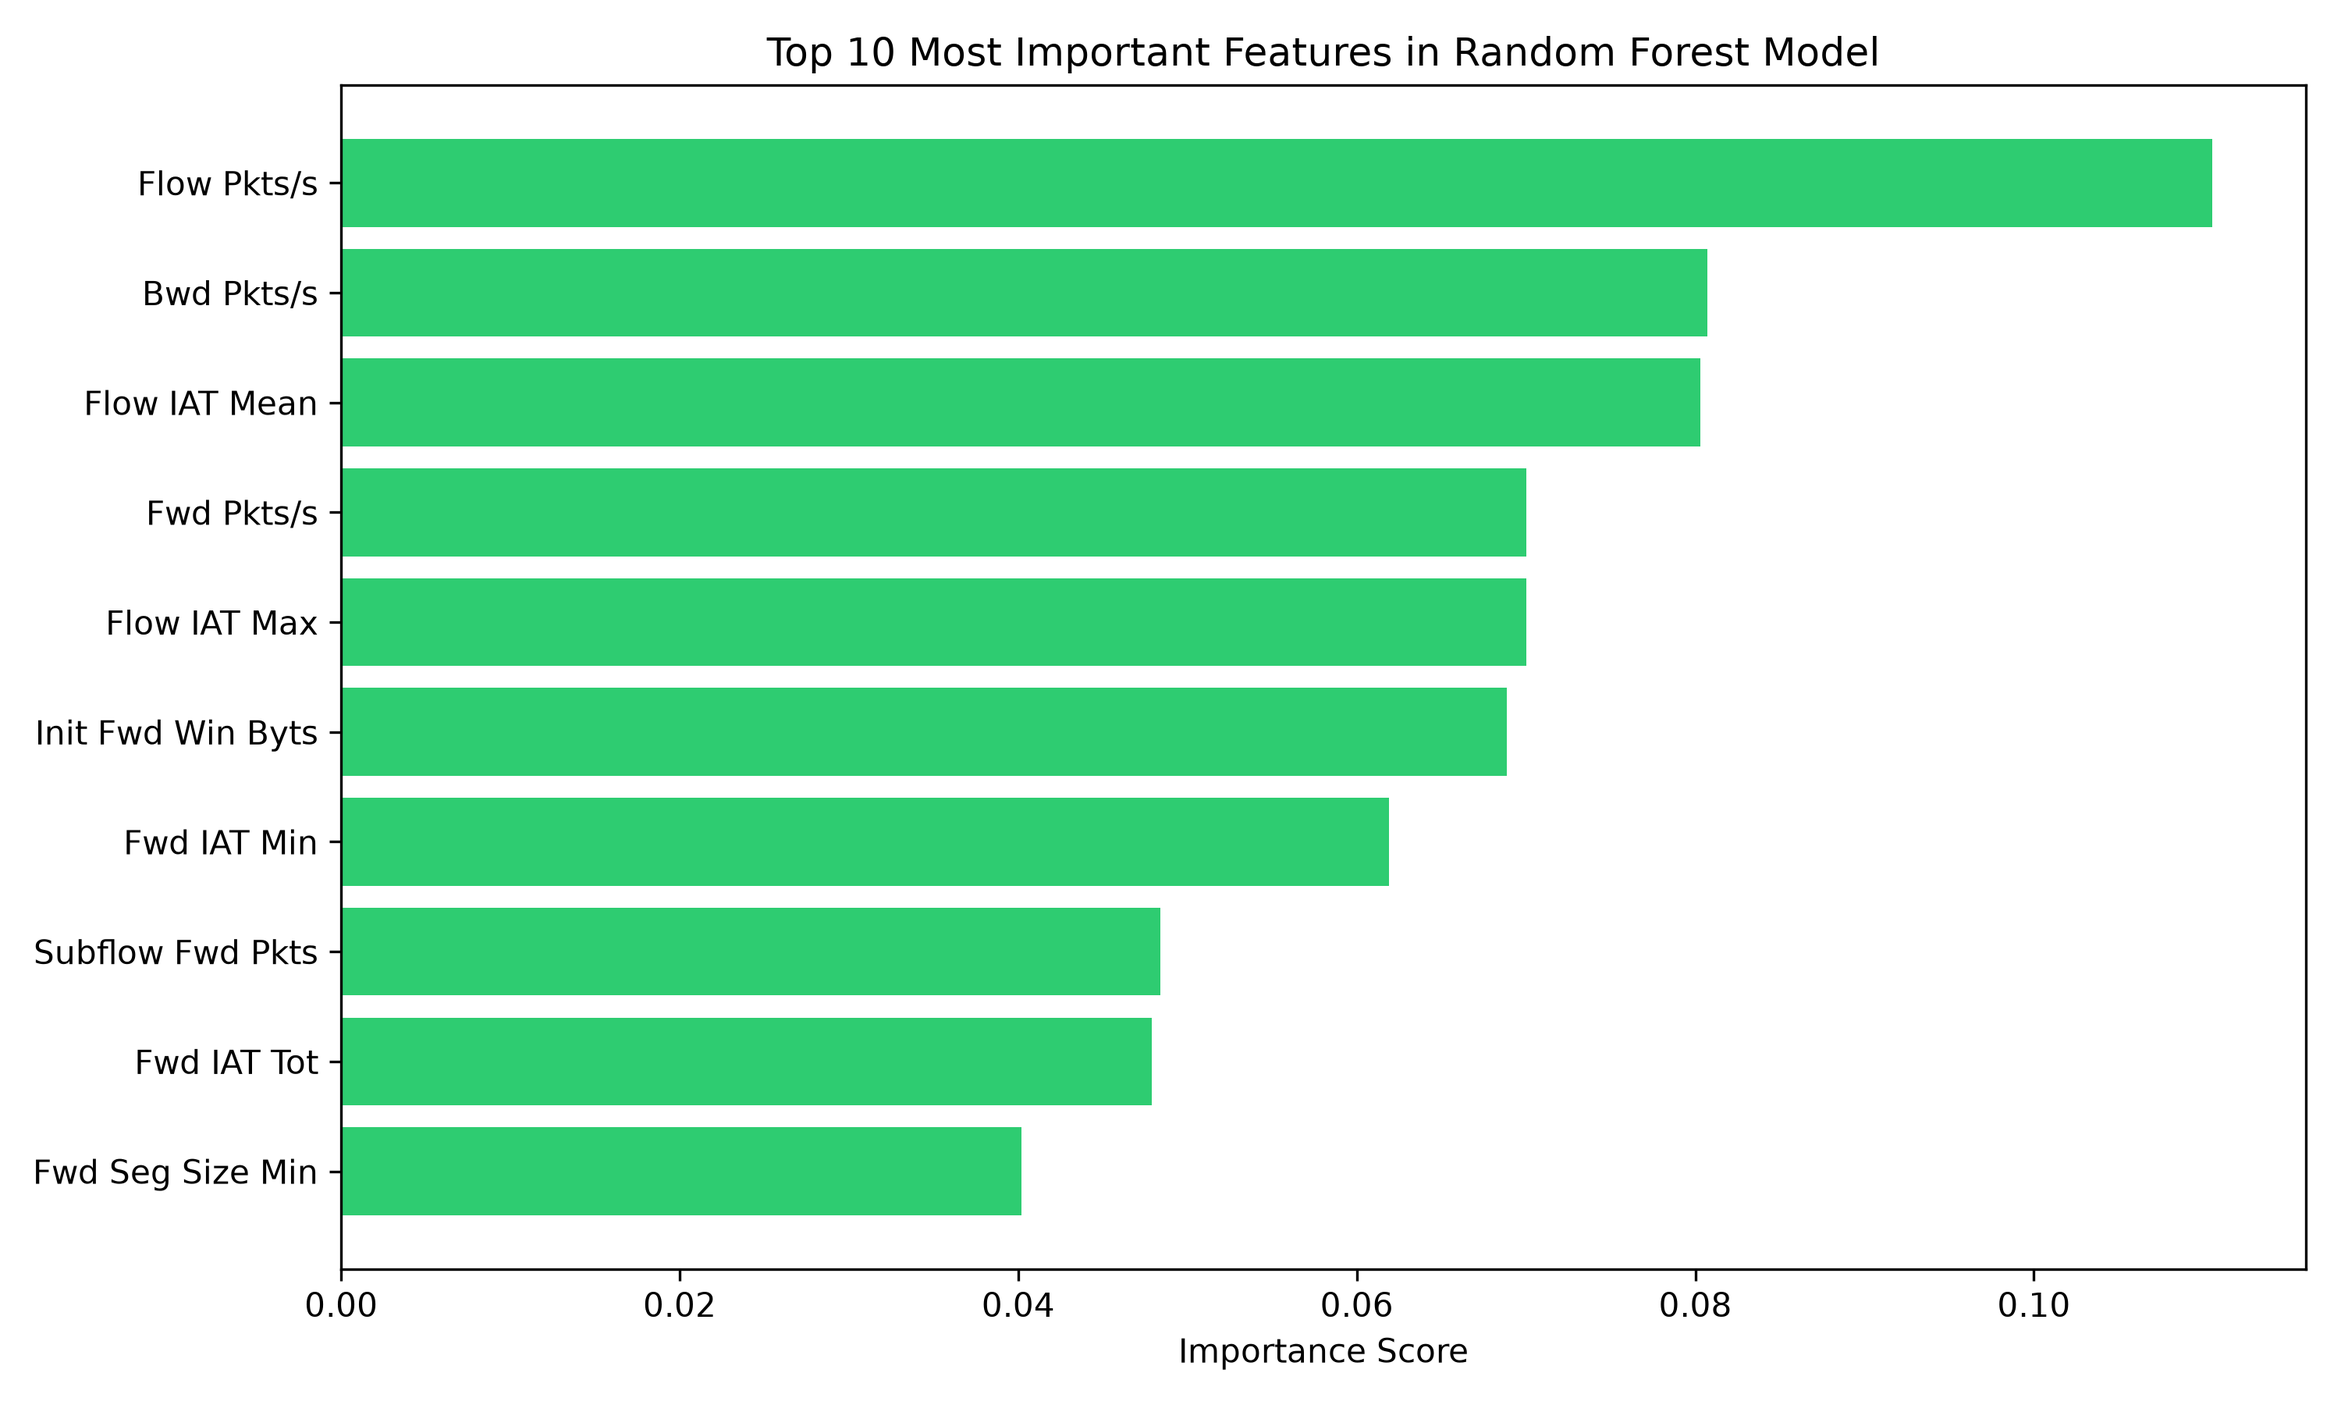
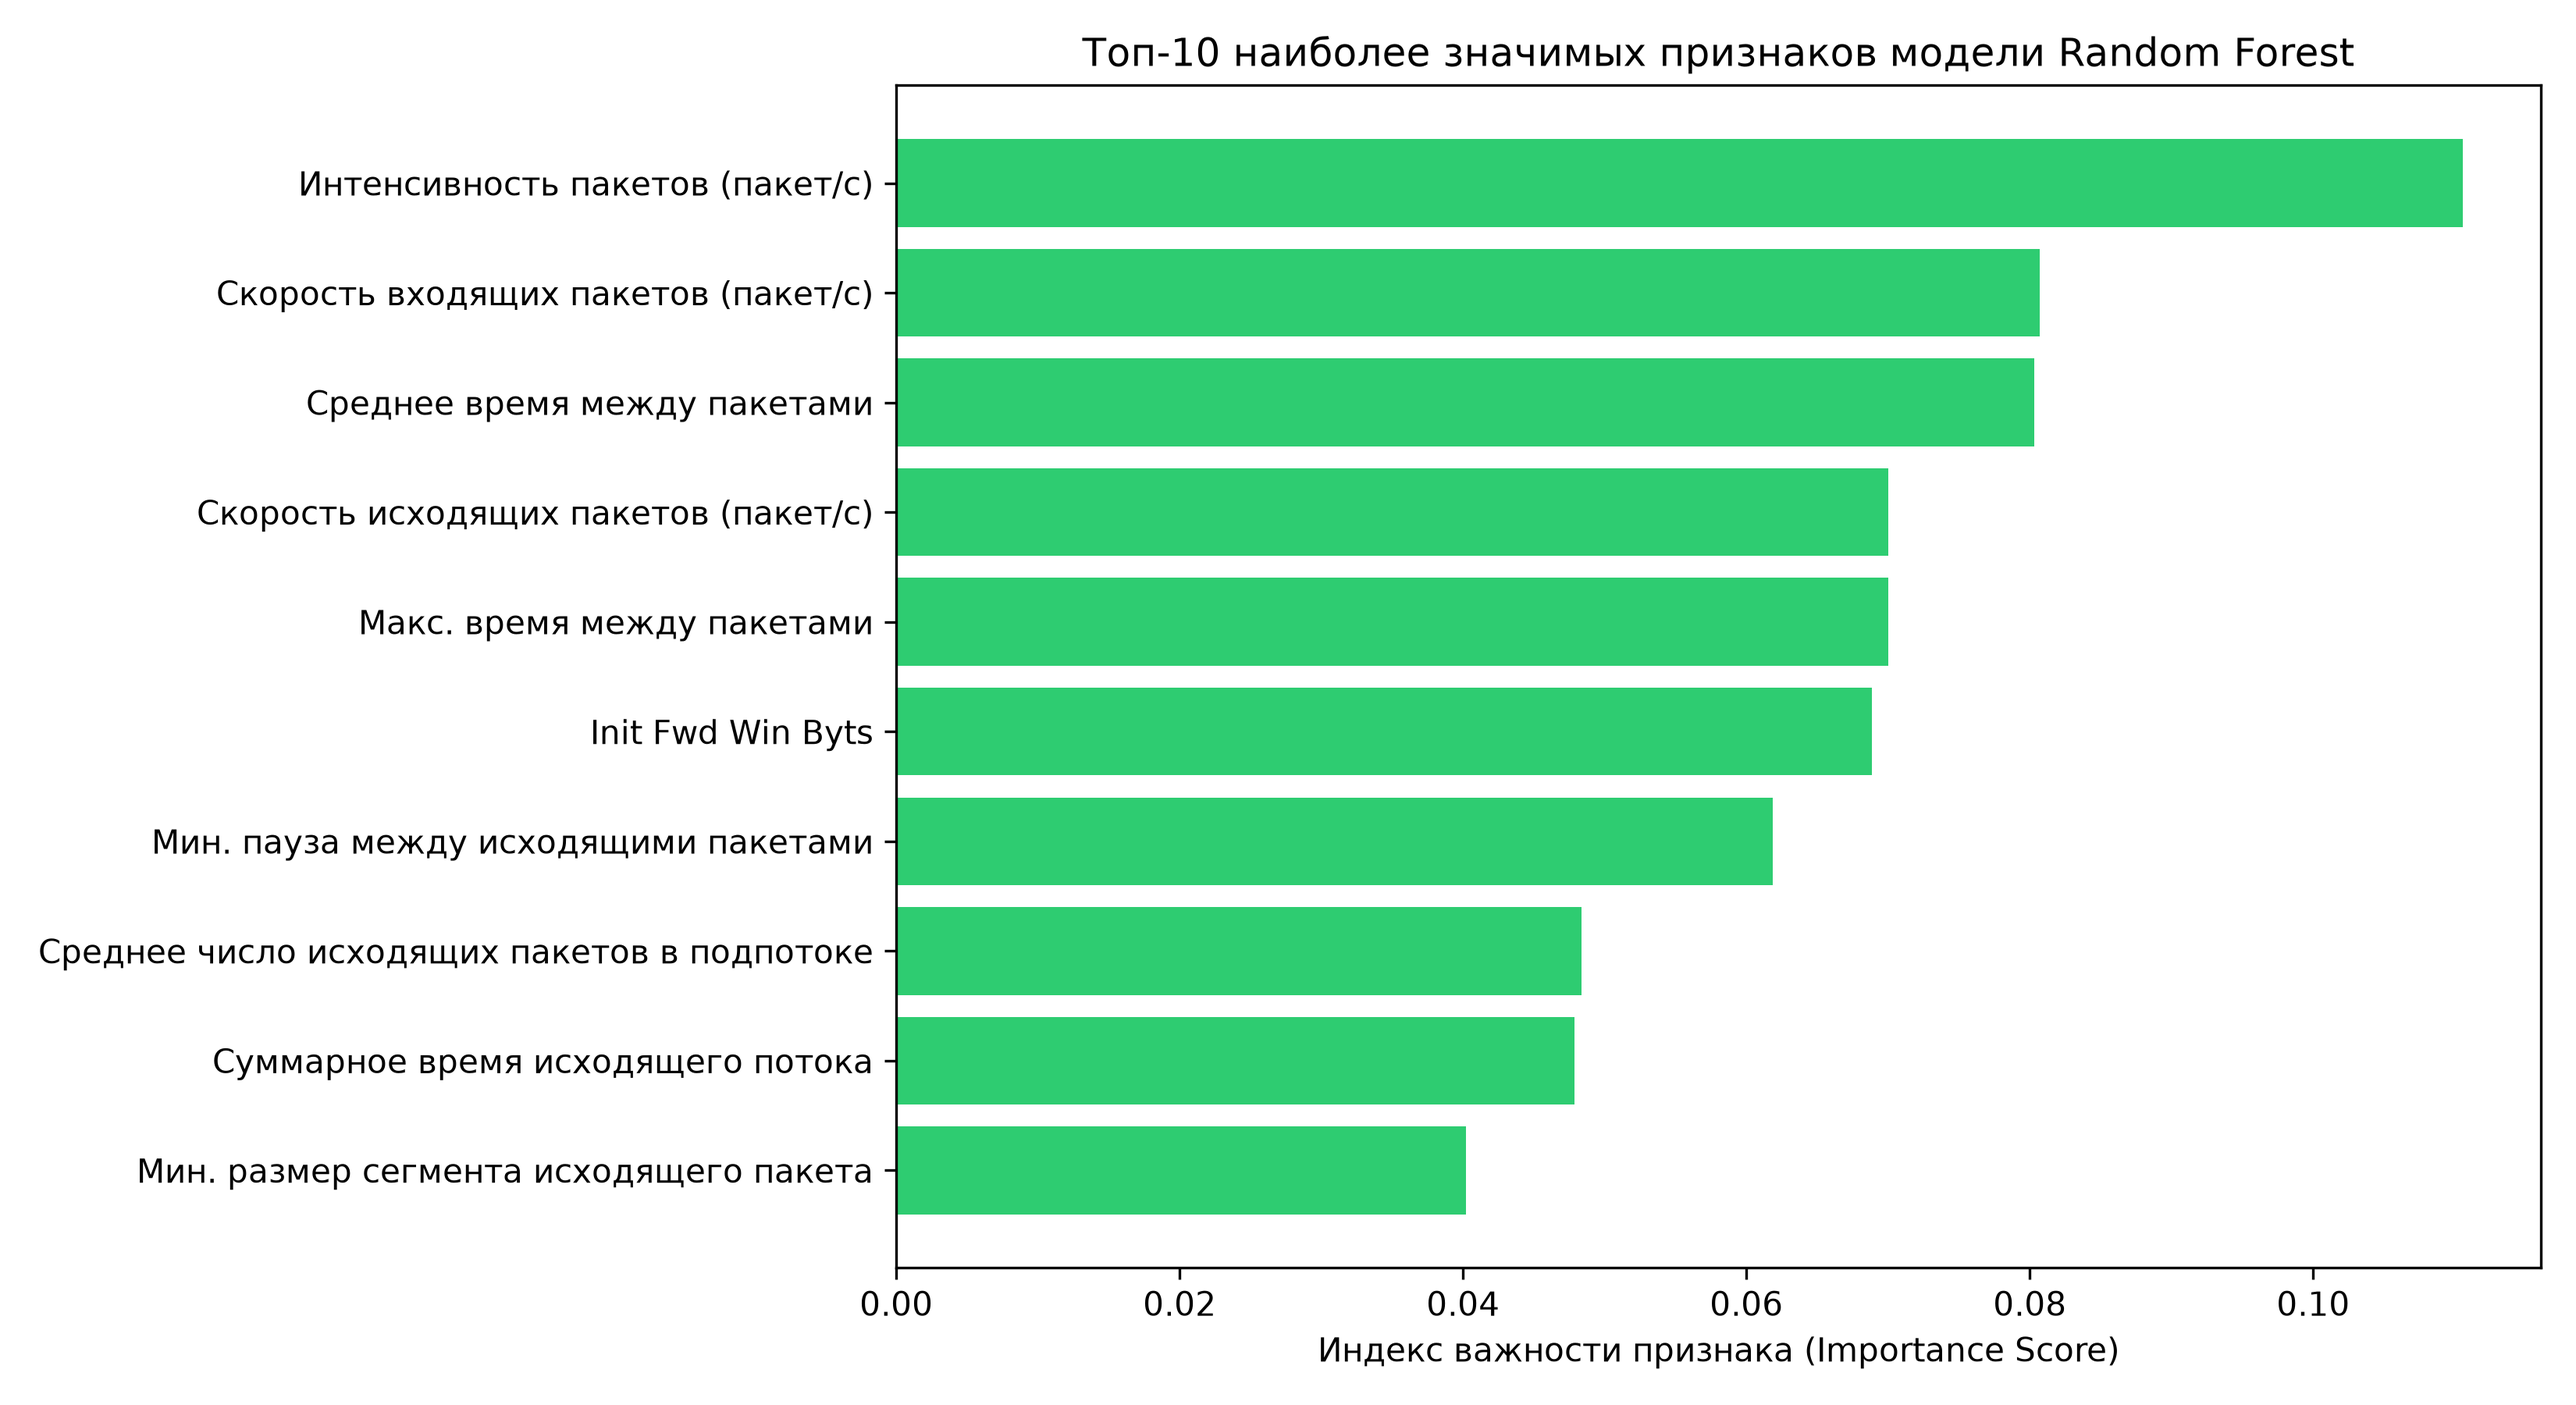
Добавил .gitkeep чтобы отобразить пустые папки на GitHub

diff --git a/ml_model/plot_features.py b/ml_model/plot_features.py
@@ -9,17 +9,34 @@ features = joblib.load('ml_model/features.pkl')
 # Получаем важность признаков
 importances = model.feature_importances_
 
-# Сортируем и берем топ-10 самых важных
+# Словарь перевода терминов сетевого трафика на русский
+translation = {
+    'Flow Pkts/s': 'Интенсивность пакетов (пакет/с)',
+    'Bwd Pkts/s': 'Скорость входящих пакетов (пакет/с)',
+    'Flow IAT Mean': 'Среднее время между пакетами',
+    'Fwd Pkts/s': 'Скорость исходящих пакетов (пакет/с)',
+    'Flow IAT Max': 'Макс. время между пакетами',
+    'Init Fwd Win Bytes': 'Размер начального окна TCP',
+    'Fwd IAT Min': 'Мин. пауза между исходящими пакетами',
+    'Subflow Fwd Pkts': 'Среднее число исходящих пакетов в подпотоке',
+    'Fwd IAT Tot': 'Суммарное время исходящего потока',
+    'Fwd Seg Size Min': 'Мин. размер сегмента исходящего пакета'
+}
+
+# Формируем датафрейм
 df_imp = pd.DataFrame({'Feature': features, 'Importance': importances})
 df_imp = df_imp.sort_values(by='Importance', ascending=True).tail(10)
 
+# Переводим названия на русский (если термина нет в словаре, оставит исходный)
+df_imp['Feature_RU'] = df_imp['Feature'].map(lambda x: translation.get(x, x))
+
 # Строим красивый график
-plt.figure(figsize=(10, 6))
-plt.barh(df_imp['Feature'], df_imp['Importance'], color='#2ecc71')
-plt.title('Top 10 Most Important Features in Random Forest Model')
-plt.xlabel('Importance Score')
+plt.figure(figsize=(11, 6))
+plt.barh(df_imp['Feature_RU'], df_imp['Importance'], color='#2ecc71')
+plt.title('Топ-10 наиболее значимых признаков модели Random Forest', fontsize=12)
+plt.xlabel('Индекс важности признака (Importance Score)', fontsize=10)
 plt.tight_layout()
 
-# Сохраняем в папку ml_model
+# Сохраняем и обновляем файл
 plt.savefig('ml_model/feature_importance.png', dpi=300)
-print("График успешно сохранен в 'ml_model/feature_importance.png'!")
+print("график сохранен в 'ml_model/feature_importance.png'!")
